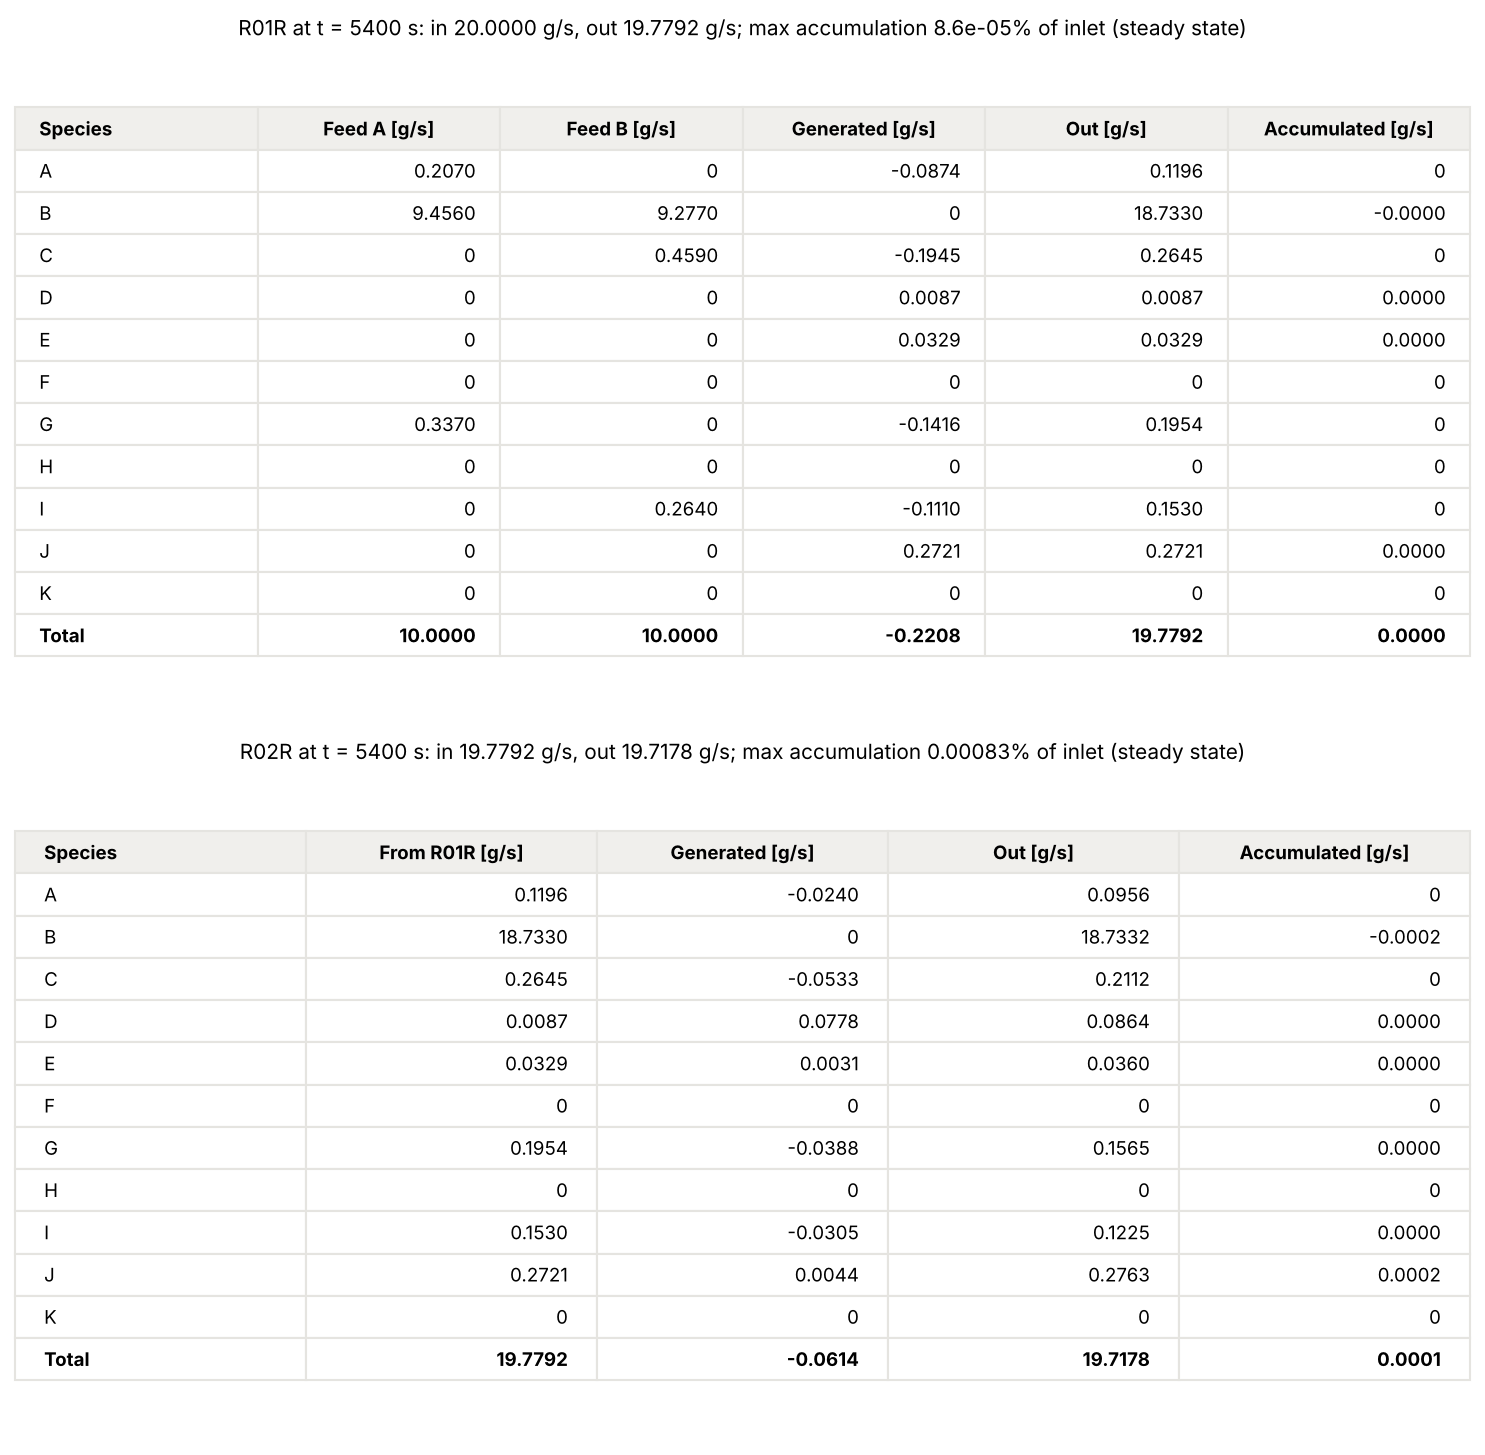
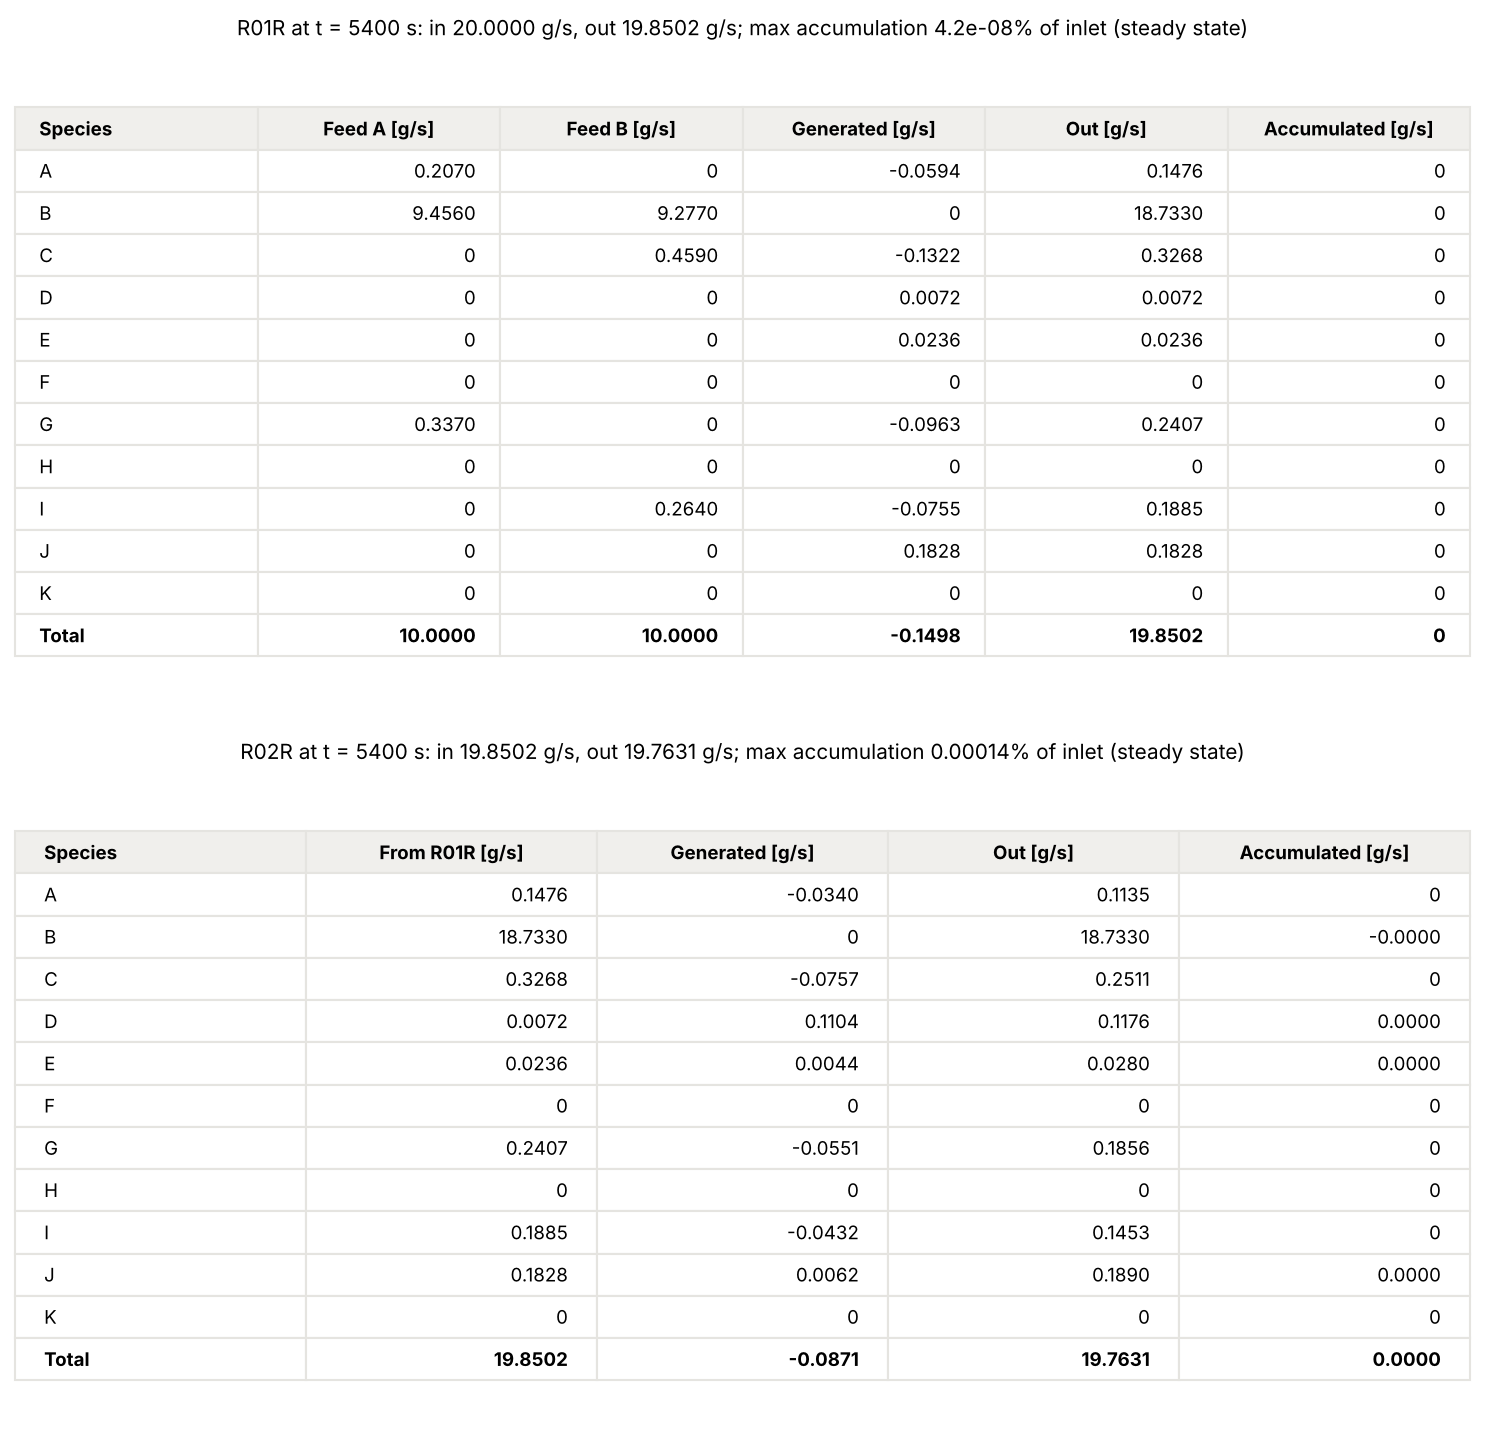
Build both flowsheet vessels through R02R.build_reactor; halve R01R's charge
R02R.build_reactor takes optional mass, temperature, coolant temperature,
controller and with_feeds overrides whose defaults are R02R's own settings,
so R02R.py on its own runs exactly as before. R01R_R02R.py now builds both
vessels through it instead of repeating the setup.

R01R starts with half of R02R's charge (5 kg). The level loop holds the
starting volume, so its residence time drops from 500 s to 250 s. Its
jacket area, and so U A, halves with it, and at 30 C the cooling demand
now pins the coolant at its 5 C floor (R01R settles at 31.0 C).

Claude-Session: https://claude.ai/code/session_01Lq5GD1uUvCU8fJu3tt8vtn

diff --git a/Project work/R02R.py/R01R_R02R.py b/Project work/R02R.py/R01R_R02R.py
@@ -10,9 +10,14 @@ The flowsheet is::
 ``R01R`` is the upstream reactor. It takes R02R's two feeds (``FEED_A`` and
 ``FEED_B`` from ``R02R.py``, unchanged) and no others. ``R02R`` gets no fresh
 feed at all: its only inlet is R01R's outlet, handed over by
-``PharmaPy.SimExec.SimulationExec`` as R01R's solved outlet trajectory. Both
-reactors are the R02R vessel (same charge, jacket, coolant flow and three
-parallel reactions); only the temperature they are held at differs.
+``PharmaPy.SimExec.SimulationExec`` as R01R's solved outlet trajectory.
+
+Both vessels are built by ``R02R.build_reactor``, so they share its
+kinetics, feeds, jacket and coolant flow. Each differs only in the
+temperature it is held at (``SETPOINTS``) and its initial charge
+(``MASSES``). The level loop holds the starting volume, so the charge sets
+the residence time: R01R holds half of R02R's mass and so has half its
+residence time (250 s against 500 s).
 
 Feedback control
 ----------------
@@ -46,8 +51,9 @@ Figures are written to ``results/`` next to this file:
                                 accumulated at the final time
     R01R_R02R_settings.png      settings and final values for the run
 
-Settings shared with R02R (kinetics, feeds, vessel, coolant flow) are read
-from ``R02R.py`` so the two scripts cannot drift apart.
+Everything not listed under settings below (kinetics, feeds, vessel
+geometry, coolant flow, the balance replay and plotting helpers) comes from
+``R02R.py``, so the two scripts cannot drift apart.
 """
 
 from __future__ import annotations
@@ -60,12 +66,8 @@ from types import SimpleNamespace
 
 import numpy as np
 
-from PharmaPy.IntegratorBackends import ScipyBackend
-from PharmaPy.Kinetics import RxnKinetics
-from PharmaPy.Phases_Refactored import LiquidPhase
 from PharmaPy.ProcessControl_Refactored import DefaultContinuousVesselVolume
 from PharmaPy.SimExec import SimulationExec
-from PharmaPy.Utilities import CoolingWater
 
 import R02R as base
 
@@ -79,6 +81,14 @@ FLOWSHEET = "R01R --> R02R"
 SETPOINTS = {
     "R01R": 303.15,  # K, 30 C
     "R02R": 333.15,  # K, 60 C
+}
+# Initial charge of each vessel. The level loop holds the starting volume,
+# so this sets the residence time, mass / (FLOW_A + FLOW_B): R01R gets half
+# of R02R's charge (250 s against 500 s). The jacket area scales with the
+# volume (A = 4 V / D), so R01R also has half R02R's U A.
+MASSES = {
+    "R01R": 0.5 * base.REACTOR_MASS,  # kg
+    "R02R": base.REACTOR_MASS,  # kg
 }
 CONTROLLER_GAIN = 100.0  # K of jacket inlet per K of reactor error
 # The coolant is liquid water, so its inlet temperature is kept between
@@ -124,47 +134,27 @@ class JacketTemperatureController(DefaultContinuousVesselVolume):
 
 
 # ---------------------------------------------------------------- builders
-def build_reactor(name: str, database_path: Path,
-                  inlet=None) -> base.BalanceRecordingReactor:
-    """One R02R-type vessel held at ``SETPOINTS[name]``.
+def build_reactor(name: str, database_path: Path) -> base.BalanceRecordingReactor:
+    """One vessel built by ``R02R.build_reactor``, held at ``SETPOINTS[name]``
+    with an initial charge of ``MASSES[name]``.
 
-    ``inlet`` is left unset for a unit fed by the flowsheet.
+    Only the first unit gets R02R's feeds; the rest are fed by the flowsheet.
     """
-    species_names = base.database_species(database_path)
-    solvent_name = base.database_solvent(species_names)
     setpoint = SETPOINTS[name]
-
-    reactor = base.BalanceRecordingReactor(
-        integrator=ScipyBackend(),
-        h_conv=base.REACTOR_H_CONV,
-        diam=base.REACTOR_DIAMETER,
+    return base.build_reactor(
+        database_path,
+        mass=MASSES[name],
+        temperature=setpoint,
+        coolant_temperature=setpoint,
         controller=JacketTemperatureController(setpoint),
+        with_feeds=name == next(iter(SETPOINTS)),
     )
-    reactor.Phases = LiquidPhase(
-        str(database_path),
-        temp=setpoint,
-        mass_frac=base.named_mass_fraction(base.INITIAL_REACTOR,
-                                           species_names, solvent_name),
-        mass=base.REACTOR_MASS,
-        name_solv=solvent_name,
-    )
-    reactor.RxnKinetics = RxnKinetics(
-        path=str(database_path),
-        rxn_list=base.REACTIONS,
-        k_params=base.RATE_CONSTANTS,
-        ea_params=base.ACTIVATION_ENERGIES,
-        params_f=base.reaction_order_matrix(species_names),
-        temp_ref=base.KINETICS_TEMP_REF,
-        delta_hrxn=base.HEAT_OF_REACTION,
-    )
-    reactor.Utility = CoolingWater(
-        mass_flow=base.COOLANT_MASS_FLOW,
-        temp_in=setpoint,
-        h_conv=base.COOLANT_H_CONV,
-    )
-    if inlet is not None:
-        reactor.Inlet = inlet
-    return reactor
+
+
+def residence_time(name: str) -> float:
+    """Nominal residence time [s]: held mass over R02R's total feed flow,
+    which passes through every vessel in turn."""
+    return MASSES[name] / (base.FLOW_A + base.FLOW_B)
 
 
 def build_flowsheet(
@@ -172,17 +162,9 @@ def build_flowsheet(
 ) -> SimulationExec:
     """R01R takes R02R's two feeds; R02R takes only R01R's outlet."""
     database_path = Path(database_path)
-    species_names = base.database_species(database_path)
-    solvent_name = base.database_solvent(species_names)
-
     flowsheet = SimulationExec(str(database_path), flowsheet=FLOWSHEET)
-    flowsheet.R01R = build_reactor("R01R", database_path, inlet=[
-        base.make_feed(database_path, base.FEED_A, base.FLOW_A,
-                       species_names, solvent_name),
-        base.make_feed(database_path, base.FEED_B, base.FLOW_B,
-                       species_names, solvent_name),
-    ])
-    flowsheet.R02R = build_reactor("R02R", database_path)
+    for name in SETPOINTS:
+        setattr(flowsheet, name, build_reactor(name, database_path))
     return flowsheet
 
 
@@ -341,7 +323,6 @@ def settings_rows(units: dict) -> list[tuple[str, str, str]]:
         return ", ".join(f"{k} {v:g}" for k, v in named.items()) \
             + " (mass frac.)"
 
-    tau = base.REACTOR_MASS / (base.FLOW_A + base.FLOW_B)
     rows = [
         ("Flowsheet", "Topology", FLOWSHEET),
         ("Feeds (R01R only)", "Feed A",
@@ -350,9 +331,6 @@ def settings_rows(units: dict) -> list[tuple[str, str, str]]:
          f"{base.FLOW_B:g} kg/s, {composition(base.FEED_B)}"),
         ("Feeds (R01R only)", "Feed temperature",
          f"{base.FEED_TEMPERATURE:g} K"),
-        ("Vessels (each)", "Initial charge",
-         f"{base.REACTOR_MASS:g} kg solvent, at its setpoint"),
-        ("Vessels (each)", "Residence time", f"{tau:g} s"),
         ("Control", "Level", "DefaultContinuousVesselVolume (outlet flow)"),
         ("Control", "Temperature",
          f"P on jacket inlet T, Kc {CONTROLLER_GAIN:g} K/K, limits "
@@ -367,6 +345,9 @@ def settings_rows(units: dict) -> list[tuple[str, str, str]]:
                                       base.mass_fractions(reactor)[-1])
                  if s != solvent and w > 1e-9}
         rows += [
+            (name, "Initial charge / residence time",
+             f"{MASSES[name]:g} kg solvent at its setpoint / "
+             f"{residence_time(name):g} s"),
             (name, "Setpoint", f"{temps.setpoint:g} K "
                                f"({temps.setpoint - 273.15:g} °C)"),
             (name, "Final T / jacket inlet T",
@@ -434,7 +415,9 @@ if __name__ == "__main__":
     for name, reactor in units.items():
         temps = temperatures(reactor)
         bal = balances[name]
-        print(f"\n{name}  (setpoint {temps.setpoint:g} K)")
+        print(f"\n{name}  (setpoint {temps.setpoint:g} K, charge "
+              f"{MASSES[name]:g} kg, residence time "
+              f"{residence_time(name):g} s)")
         print(f"  Final T {temps.reactor[-1]:.3f} K, jacket inlet "
               f"{temps.jacket_in[-1]:.3f} K, offset "
               f"{temps.reactor[-1] - temps.setpoint:+.3f} K")

diff --git a/Project work/R02R.py/R02R.py b/Project work/R02R.py/R02R.py
@@ -239,8 +239,20 @@ def make_feed(
 
 def build_reactor(
     database_path: Path | str = DEFAULT_DATABASE_PATH,
+    *,
+    mass: float = REACTOR_MASS,
+    temperature: float = INITIAL_TEMPERATURE,
+    coolant_temperature: float = COOLANT_TEMPERATURE,
+    controller=None,
+    with_feeds: bool = True,
 ) -> BalanceRecordingReactor:
-    """Build R02R with both feeds attached as separate inlets."""
+    """Build R02R with both feeds attached as separate inlets.
+
+    The keyword arguments let a flowsheet reuse this vessel with a different
+    initial charge, temperature or controller; the defaults are R02R's own
+    settings. ``with_feeds=False`` leaves Inlet unset, for a vessel fed by
+    an upstream unit.
+    """
     database_path = Path(database_path)
     species_names = database_species(database_path)
     solvent_name = database_solvent(species_names)
@@ -249,13 +261,14 @@ def build_reactor(
         integrator=ScipyBackend(),
         h_conv=REACTOR_H_CONV,
         diam=REACTOR_DIAMETER,
+        controller=controller,
     )
     reactor.Phases = LiquidPhase(
         str(database_path),
-        temp=INITIAL_TEMPERATURE,
+        temp=temperature,
         mass_frac=named_mass_fraction(INITIAL_REACTOR, species_names,
                                       solvent_name),
-        mass=REACTOR_MASS,
+        mass=mass,
         name_solv=solvent_name,
     )
     reactor.RxnKinetics = RxnKinetics(
@@ -269,13 +282,16 @@ def build_reactor(
     )
     reactor.Utility = CoolingWater(
         mass_flow=COOLANT_MASS_FLOW,
-        temp_in=COOLANT_TEMPERATURE,
+        temp_in=coolant_temperature,
         h_conv=COOLANT_H_CONV,
     )
-    reactor.Inlet = [
-        make_feed(database_path, FEED_A, FLOW_A, species_names, solvent_name),
-        make_feed(database_path, FEED_B, FLOW_B, species_names, solvent_name),
-    ]
+    if with_feeds:
+        reactor.Inlet = [
+            make_feed(database_path, FEED_A, FLOW_A, species_names,
+                      solvent_name),
+            make_feed(database_path, FEED_B, FLOW_B, species_names,
+                      solvent_name),
+        ]
     return reactor
 
 
